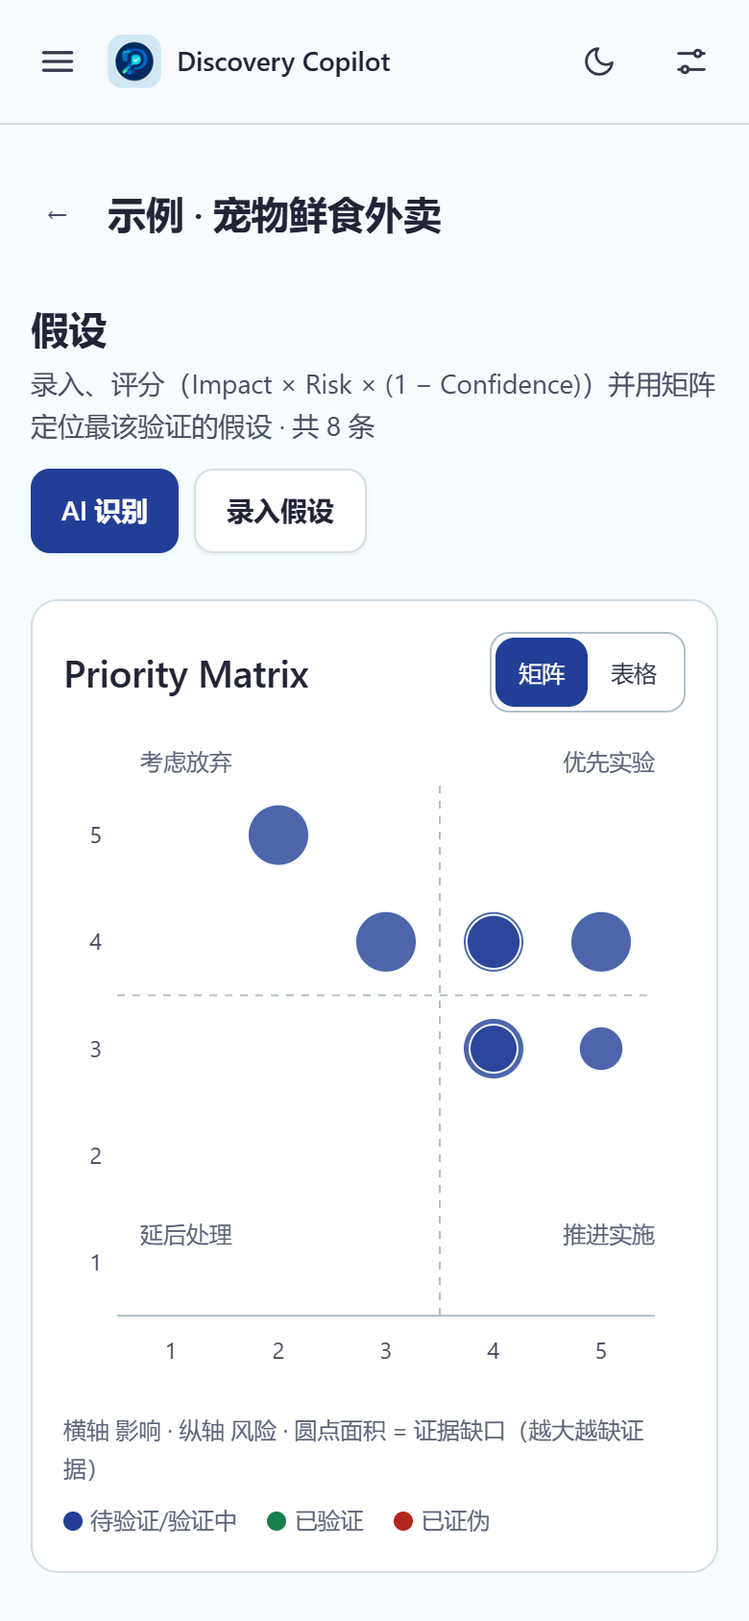
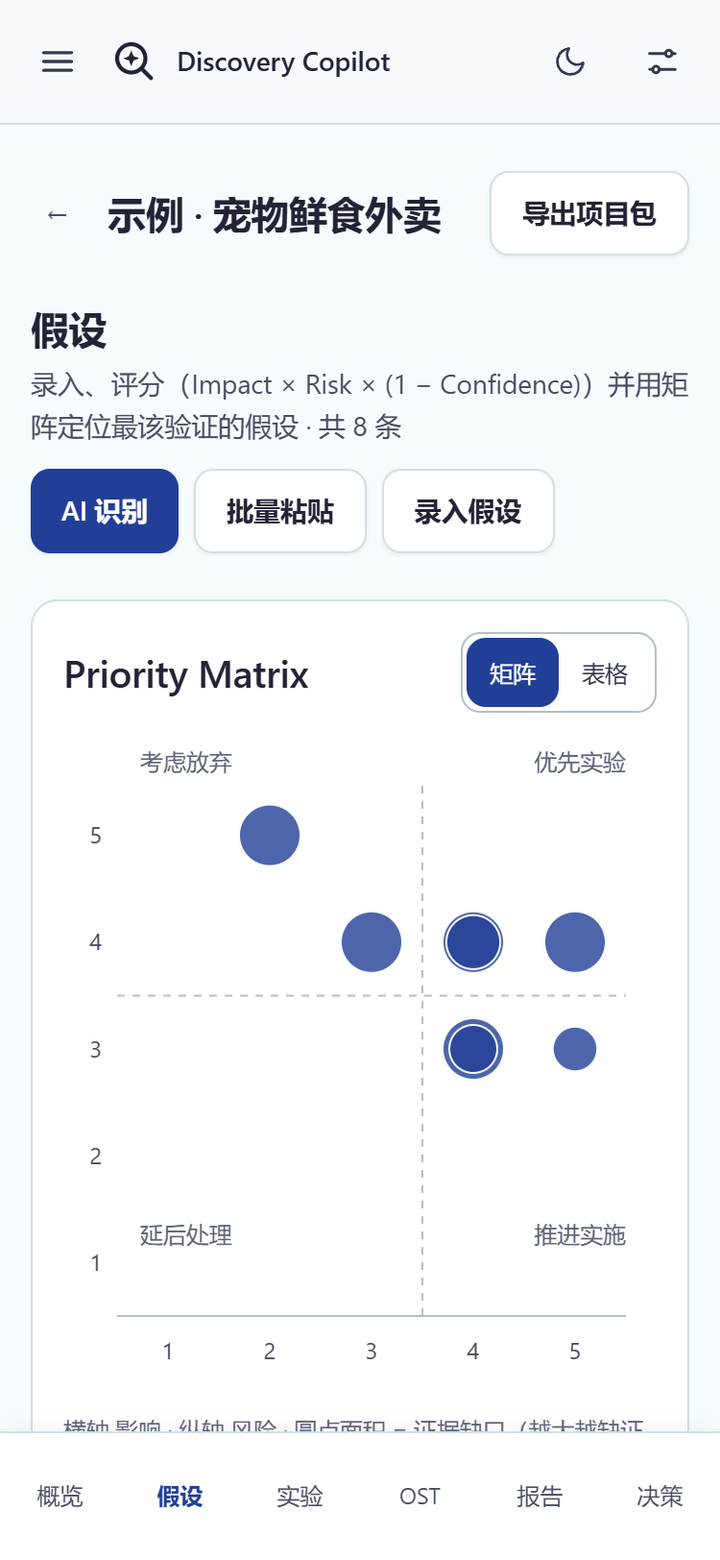
feat(v0.2.4-6): 品牌图标换为原创 SVG
- public/brand-icon.svg（透明背景放大镜+星芒），删除豆包生成的 brand-icon.jpg
- 新增 BrandMark：CSS mask + bg-ink，浅/深主题自适应；替换侧栏/顶栏/抽屉/欢迎页四处 img
- favicon 改 image/svg+xml；启动页改用 mask，暗色下切换为浅色
- 导出报告不再给 logo 加圆角；测试语料改 svg
- NOTICE/README 中英/8 语言 Product 与 Terms 文案去掉豆包与 AI 生成声明
- 重拍 4 张 375px README 截图

diff --git a/src/lib/i18n/dictionaries/ru.ts b/src/lib/i18n/dictionaries/ru.ts
@@ -407,7 +407,7 @@ export const ru: Dict = {
   'settings.product.p4.desc': 'ИИ только предлагает: результаты выявления, черновики экспериментов и правки отчётов попадают в данные лишь после вашего подтверждения.',
   'settings.product.openSourceTitle': 'Открытый код',
   'settings.product.openSourceBody':
-    'Проект открыт под лицензией MIT: свободное использование, изменение и распространение. Зависимости перечислены в package.json, полные тексты лицензий третьих сторон, поставляемых со сборкой, — в THIRD_PARTY_LICENSES.txt и NOTICE. Значки интерфейса — собственные инлайновые SVG; иконка приложения создана с помощью ИИ (Doubao), по условиям платформы права принадлежат пользователю, она распространяется по MIT в объёме прав проекта и сохраняет метку ИИ-генерации. Отзывы приветствуются в Issues.',
+    'Проект открыт под лицензией MIT: свободное использование, изменение и распространение. Зависимости перечислены в package.json, полные тексты лицензий третьих сторон, поставляемых со сборкой, — в THIRD_PARTY_LICENSES.txt и NOTICE. Значки интерфейса — собственные инлайновые SVG; иконка приложения — собственный SVG (прозрачный фон), распространяется по MIT. Отзывы приветствуются в Issues.',
   'settings.product.moreTitle': 'Читать дальше',
   'settings.product.linkPrivacyDesc': 'Где хранятся данные и когда они покидают устройство',
   'settings.product.linkTermsDesc': 'Условия использования и отказ от гарантий',
@@ -445,7 +445,7 @@ export const ru: Dict = {
     'Вы обязуетесь использовать Приложение законно и не для деятельности, нарушающей применимое право или права других; за законность и права на содержимое, отправляемое через Приложение сторонним сервисам, отвечаете вы.',
   'settings.terms.s7.title': '7. Интеллектуальная собственность',
   'settings.terms.s7.p1':
-    'Исходный код Приложения открыт под лицензией MIT; вы можете свободно использовать, изменять и распространять его на её условиях. Значки интерфейса — собственные инлайновые SVG; иконка приложения создана с помощью ИИ, распространяется по MIT в объёме прав проекта и сохраняет метку ИИ-генерации. Сторонние зависимости сохраняют свои лицензии; см. THIRD_PARTY_LICENSES.txt и NOTICE.',
+    'Исходный код Приложения открыт под лицензией MIT; вы можете свободно использовать, изменять и распространять его на её условиях. Значки интерфейса — собственные инлайновые SVG; иконка приложения — собственный SVG (прозрачный фон), распространяется по MIT. Сторонние зависимости сохраняют свои лицензии; см. THIRD_PARTY_LICENSES.txt и NOTICE.',
   'settings.terms.s8.title': '8. Отказ от гарантий',
   'settings.terms.s8.p1':
     'Приложение не обещает работы без ошибок, без перерывов или пригодности к конкретным целям; никаких гарантий — явных или подразумеваемых — относительно товарности, отсутствия нарушения прав или точности вывода не даётся. Риск использования Приложения лежит на вас.',

diff --git a/src/lib/i18n/dictionaries/ja.ts b/src/lib/i18n/dictionaries/ja.ts
@@ -407,7 +407,7 @@ export const ja: Dict = {
   'settings.product.p4.desc': 'AI は提案のみ：抽出結果・実験ドラフト・レポートの書き換えは、あなたが確認して初めてデータに書き込まれます。',
   'settings.product.openSourceTitle': 'オープンソース',
   'settings.product.openSourceBody':
-    '本プロジェクトは MIT ライセンスで公開：自由に利用・改変・配布できます。オープンソース依存は package.json を基準とし、ビルドに同梱される第三者ライセンス全文は THIRD_PARTY_LICENSES.txt と NOTICE にあります。インターフェースアイコンは自作インライン SVG、アプリアイコンは AI 生成（豆包）で、プラットフォーム規約に基づき権利はユーザーに帰属し MIT ライセンスで配布され、AI 生成標識を保持しています。Issues でフィードバックを歓迎します。',
+    '本プロジェクトは MIT ライセンスで公開：自由に利用・改変・配布できます。オープンソース依存は package.json を基準とし、ビルドに同梱される第三者ライセンス全文は THIRD_PARTY_LICENSES.txt と NOTICE にあります。インターフェースアイコンは自作インライン SVG、アプリアイコンは自作 SVG（透明背景）で、MIT ライセンスで配布されます。Issues でフィードバックを歓迎します。',
   'settings.product.moreTitle': '関連ドキュメント',
   'settings.product.linkPrivacyDesc': 'データの保存先と、デバイス外に出る条件',
   'settings.product.linkTermsDesc': '利用条件と免責事項',
@@ -445,7 +445,7 @@ export const ja: Dict = {
     'あなたは本アプリを合法的な範囲で利用し、適用法違反や他者の権利侵害にあたる行為に使用しないことに同意します。本アプリ経由で第三者サービスへ送信する内容の合法性と権利関係はあなたが責任を負います。',
   'settings.terms.s7.title': '7. 知的財産権',
   'settings.terms.s7.p1':
-    '本アプリのソースコードは MIT ライセンスで公開されており、同ライセンスの条件で自由に利用・改変・配布できます。インターフェースアイコンは自作インライン SVG、アプリアイコンは AI 生成で、プロジェクトが権利を有する範囲で MIT ライセンスにより配布され、AI 生成標識を保持しています。第三者依存は各自のライセンスに従います。詳細は THIRD_PARTY_LICENSES.txt と NOTICE を参照してください。',
+    '本アプリのソースコードは MIT ライセンスで公開されており、同ライセンスの条件で自由に利用・改変・配布できます。インターフェースアイコンは自作インライン SVG、アプリアイコンは自作 SVG（透明背景）で、MIT ライセンスにより配布されます。第三者依存は各自のライセンスに従います。詳細は THIRD_PARTY_LICENSES.txt と NOTICE を参照してください。',
   'settings.terms.s8.title': '8. 免責事項',
   'settings.terms.s8.p1':
     '本アプリは、誤りなく中断なく動作すること、または特定の目的への適合性を保証しません。商品性・非侵害・出力の正確性について、明示か黙示かを問わず一切の保証を行いません。本アプリの利用に伴うリスクはあなたが負担します。',

diff --git a/src/lib/i18n/dictionaries/fr.ts b/src/lib/i18n/dictionaries/fr.ts
@@ -409,7 +409,7 @@ export const fr: Dict = {
   'settings.product.p4.desc': 'L’IA ne fait que proposer : résultats d’identification, brouillons d’expériences et réécritures de rapports n’entrent dans vos données qu’après votre confirmation.',
   'settings.product.openSourceTitle': 'Open source',
   'settings.product.openSourceBody':
-    'Le projet est open source sous licence MIT : libre d’utilisation, de modification et de distribution. Les dépendances sont listées dans package.json et les textes complets des licences tierces livrés avec le build se trouvent dans THIRD_PARTY_LICENSES.txt et NOTICE. Les icônes d’interface sont des SVG en ligne dessinés pour le projet ; l’icône de l’app a été générée par IA avec Doubao, appartient à l’utilisateur selon les conditions de la plateforme, est distribuée sous MIT dans la mesure des droits du projet et conserve son marquage IA. Vos retours sont bienvenus via les Issues.',
+    'Le projet est open source sous licence MIT : libre d’utilisation, de modification et de distribution. Les dépendances sont listées dans package.json et les textes complets des licences tierces livrés avec le build se trouvent dans THIRD_PARTY_LICENSES.txt et NOTICE. Les icônes d’interface sont des SVG en ligne dessinés pour le projet ; l’icône de l’app est un SVG original (fond transparent) distribué sous MIT. Vos retours sont bienvenus via les Issues.',
   'settings.product.moreTitle': 'Pour aller plus loin',
   'settings.product.linkPrivacyDesc': 'Où sont stockées les données et quand elles quittent votre appareil',
   'settings.product.linkTermsDesc': 'Conditions d’utilisation et avertissement',
@@ -447,7 +447,7 @@ export const fr: Dict = {
     'Vous vous engagez à utiliser l’Application dans le cadre de la loi et à ne pas l’employer pour des activités violant la loi applicable ou les droits d’autrui ; vous êtes responsable de la légalité et des droits sur les contenus envoyés à des services tiers via l’Application.',
   'settings.terms.s7.title': '7. Propriété intellectuelle',
   'settings.terms.s7.p1':
-    'Le code source de l’Application est open source sous licence MIT ; vous pouvez l’utiliser, le modifier et le distribuer librement selon cette licence. Les icônes d’interface sont des SVG en ligne dessinés pour le projet ; l’icône de l’app est générée par IA, distribuée sous MIT dans la mesure des droits du projet et conserve son marquage IA. Les dépendances tierces gardent leurs propres licences ; voir THIRD_PARTY_LICENSES.txt et NOTICE.',
+    'Le code source de l’Application est open source sous licence MIT ; vous pouvez l’utiliser, le modifier et le distribuer librement selon cette licence. Les icônes d’interface sont des SVG en ligne dessinés pour le projet ; l’icône de l’app est un SVG original (fond transparent) distribué sous MIT. Les dépendances tierces gardent leurs propres licences ; voir THIRD_PARTY_LICENSES.txt et NOTICE.',
   'settings.terms.s8.title': '8. Avertissement (disclaimer)',
   'settings.terms.s8.p1':
     'L’Application ne promet ni fonctionnement sans erreur, ni continuité de service, ni adéquation à un usage particulier ; aucune garantie — expresse ou implicite — n’est donnée quant à la qualité marchande, à la non-contrefaçon ou à l’exactitude des sorties. Vous assumez tous les risques liés à son utilisation.',

diff --git a/src/lib/i18n/dictionaries/ko.ts b/src/lib/i18n/dictionaries/ko.ts
@@ -398,7 +398,7 @@ export const ko: Dict = {
   'settings.product.p4.desc': 'AI는 제안만 합니다: 추출 결과, 실험 초안, 보고서 수정은 내가 확인한 후에야 데이터에 기록됩니다.',
   'settings.product.openSourceTitle': '오픈소스',
   'settings.product.openSourceBody':
-    '이 프로젝트는 MIT 라이선스로 공개되어 자유로운 사용·수정·배포가 가능합니다. 오픈소스 의존성은 package.json 기준이며, 빌드에 포함되는 제3자 라이선스 전문은 THIRD_PARTY_LICENSES.txt 와 NOTICE 에 있습니다. 인터페이스 아이콘은 자체 제작 인라인 SVG, 앱 아이콘은 AI 생성(더우바오)으로 플랫폼 약관에 따라 권리가 사용자에게 귀속되며 MIT 라이선스로 배포되고 AI 생성 표시를 유지합니다. 저장소 Issues로 피드백을 환영합니다.',
+    '이 프로젝트는 MIT 라이선스로 공개되어 자유로운 사용·수정·배포가 가능합니다. 오픈소스 의존성은 package.json 기준이며, 빌드에 포함되는 제3자 라이선스 전문은 THIRD_PARTY_LICENSES.txt 와 NOTICE 에 있습니다. 인터페이스 아이콘은 자체 제작 인라인 SVG, 앱 아이콘은 자체 제작 SVG(투명 배경)이며 MIT 라이선스로 배포됩니다. 저장소 Issues로 피드백을 환영합니다.',
   'settings.product.moreTitle': '더 읽기',
   'settings.product.linkPrivacyDesc': '데이터가 어디에 저장되고 언제 기기 밖으로 나가는지',
   'settings.product.linkTermsDesc': '이용 조건과 면책 조항',
@@ -433,7 +433,7 @@ export const ko: Dict = {
   'settings.terms.s6.p1':
     '본 앱을 합법적 범위에서 사용하고 적용 법령 위반이나 타인의 권리 침해에 해당하는 활동에 사용하지 않을 것을 약속합니다. 본 앱을 통해 제3자 서비스로 보내는 내용의 적법성과 권리 귀속은 내가 책임집니다.',
   'settings.terms.s7.title': '7. 지식재산권',
-  'settings.terms.s7.p1': '본 앱의 소스 코드는 MIT 라이선스로 공개되며 해당 라이선스 조건 아래 자유로운 사용·수정·배포가 가능합니다. 인터페이스 아이콘은 자체 제작 인라인 SVG, 앱 아이콘은 AI 생성으로 프로젝트가 권리를 가지는 범위에서 MIT 라이선스로 배포되며 AI 생성 표시를 유지합니다. 제3자 의존성은 각자의 라이선스를 따릅니다. 자세한 내용은 THIRD_PARTY_LICENSES.txt 와 NOTICE 를 참조하세요.',
+  'settings.terms.s7.p1': '본 앱의 소스 코드는 MIT 라이선스로 공개되며 해당 라이선스 조건 아래 자유로운 사용·수정·배포가 가능합니다. 인터페이스 아이콘은 자체 제작 인라인 SVG, 앱 아이콘은 자체 제작 SVG(투명 배경)이며 MIT 라이선스로 배포됩니다. 제3자 의존성은 각자의 라이선스를 따릅니다. 자세한 내용은 THIRD_PARTY_LICENSES.txt 와 NOTICE 를 참조하세요.',
   'settings.terms.s8.title': '8. 면책 조항',
   'settings.terms.s8.p1':
     '본 앱은 오류 없음, 무중단 동작, 특정 용도 적합성을 약속하지 않으며 상품성, 비침해, 출력 정확성에 대해 명시적이든 묵시적이든 어떤 보증도 하지 않습니다. 본 앱 사용의 위험은 사용자가 부담합니다.',

diff --git a/src/lib/i18n/dictionaries/de.ts b/src/lib/i18n/dictionaries/de.ts
@@ -409,7 +409,7 @@ export const de: Dict = {
   'settings.product.p4.desc': 'Die KI schlägt nur vor: Identifikationsergebnisse, Experimententwürfe und Berichtsüberarbeitungen landen erst nach deiner Bestätigung in den Daten.',
   'settings.product.openSourceTitle': 'Open Source',
   'settings.product.openSourceBody':
-    'Das Projekt ist unter der MIT-Lizenz quelloffen: freie Nutzung, Änderung und Verbreitung. Die Abhängigkeiten stehen in package.json, die vollständigen Lizenztexte der im Build enthaltenen Drittanbieter in THIRD_PARTY_LICENSES.txt und NOTICE. Oberflächensymbole sind selbstgezeichnete Inline-SVGs; das App-Icon wurde mit Doubao per KI erzeugt, gehört nach den Plattformbedingungen dem Nutzer, wird im Rahmen der Projektrechte unter MIT verteilt und behält seine KI-Kennzeichnung. Feedback über Issues willkommen.',
+    'Das Projekt ist unter der MIT-Lizenz quelloffen: freie Nutzung, Änderung und Verbreitung. Die Abhängigkeiten stehen in package.json, die vollständigen Lizenztexte der im Build enthaltenen Drittanbieter in THIRD_PARTY_LICENSES.txt und NOTICE. Oberflächensymbole sind selbstgezeichnete Inline-SVGs; das App-Icon ist ein eigenes SVG (transparenter Hintergrund) und wird unter MIT verteilt. Feedback über Issues willkommen.',
   'settings.product.moreTitle': 'Weiterlesen',
   'settings.product.linkPrivacyDesc': 'Wo Daten liegen und wann sie dein Gerät verlassen',
   'settings.product.linkTermsDesc': 'Nutzungsbedingungen und Haftungsausschluss',
@@ -447,7 +447,7 @@ export const de: Dict = {
     'Du versicherst, die Anwendung im Rahmen geltenden Rechts zu nutzen und nicht für Handlungen, die gegen Gesetze oder Rechte anderer verstoßen; für Rechtmäßigkeit und Rechte an Inhalten, die du über die Anwendung an Drittdienste sendest, bist du verantwortlich.',
   'settings.terms.s7.title': '7. Geistiges Eigentum',
   'settings.terms.s7.p1':
-    'Der Quellcode der Anwendung ist unter der MIT-Lizenz quelloffen; du darfst ihn nach deren Bedingungen frei nutzen, ändern und verbreiten. Oberflächensymbole sind selbstgezeichnete Inline-SVGs; das App-Icon ist KI-generiert, wird im Rahmen der Projektrechte unter MIT verteilt und behält seine KI-Kennzeichnung. Abhängigkeiten Dritter behalten ihre eigenen Lizenzen; siehe THIRD_PARTY_LICENSES.txt und NOTICE.',
+    'Der Quellcode der Anwendung ist unter der MIT-Lizenz quelloffen; du darfst ihn nach deren Bedingungen frei nutzen, ändern und verbreiten. Oberflächensymbole sind selbstgezeichnete Inline-SVGs; das App-Icon ist ein eigenes SVG (transparenter Hintergrund) und wird unter MIT verteilt. Abhängigkeiten Dritter behalten ihre eigenen Lizenzen; siehe THIRD_PARTY_LICENSES.txt und NOTICE.',
   'settings.terms.s8.title': '8. Haftungsausschluss',
   'settings.terms.s8.p1':
     'Die Anwendung verspricht weder fehlerfreien noch unterbrechungsfreien Betrieb noch Eignung für einen bestimmten Zweck; es werden keine Garantien — weder ausdrücklich noch stillschweigend — für Marktgängigkeit, Rechtsfreiheit oder Ausgabegenauigkeit gegeben. Das Nutzungsrisiko trägst du.',

diff --git a/src/lib/i18n/dictionaries/en.ts b/src/lib/i18n/dictionaries/en.ts
@@ -407,7 +407,7 @@ export const en: Dict = {
   'settings.product.p4.desc': 'AI only suggests: identification results, experiment drafts and report rewrites enter your data only after you confirm.',
   'settings.product.openSourceTitle': 'Open source',
   'settings.product.openSourceBody':
-    'The project is open source under the MIT license: free to use, modify and distribute. Dependencies are listed in package.json, and the full third-party license texts shipped with the build are in THIRD_PARTY_LICENSES.txt and NOTICE. Interface icons are inline SVGs drawn for this project; the app icon was AI-generated with Doubao, is distributed under MIT to the extent the project holds rights in it under the platform terms, and retains its AI-generation label. Feedback is welcome via repository Issues.',
+    'The project is open source under the MIT license: free to use, modify and distribute. Dependencies are listed in package.json, and the full third-party license texts shipped with the build are in THIRD_PARTY_LICENSES.txt and NOTICE. Interface icons are inline SVGs drawn for this project; the app icon is an original SVG drawn for this project (transparent background) and is distributed under MIT. Feedback is welcome via repository Issues.',
   'settings.product.moreTitle': 'Further reading',
   'settings.product.linkPrivacyDesc': 'Where data is stored and when it leaves your device',
   'settings.product.linkTermsDesc': 'Terms of use and the disclaimer',
@@ -445,7 +445,7 @@ export const en: Dict = {
     'You agree to use the Application lawfully and not for any activity that violates applicable law or infringes the rights of others; you are responsible for the legality and rights of content you send to third-party services through the Application.',
   'settings.terms.s7.title': '7. Intellectual property',
   'settings.terms.s7.p1':
-    'The source code of the Application is open source under the MIT license; you may use, modify and distribute it under that license. Interface icons are inline SVGs drawn for this project; the app icon was AI-generated and is distributed under MIT to the extent the project holds rights in it, with its AI-generation label retained. Third-party dependencies keep their own licenses; see THIRD_PARTY_LICENSES.txt and NOTICE.',
+    'The source code of the Application is open source under the MIT license; you may use, modify and distribute it under that license. Interface icons are inline SVGs drawn for this project; the app icon is an original SVG drawn for this project and is distributed under MIT. Third-party dependencies keep their own licenses; see THIRD_PARTY_LICENSES.txt and NOTICE.',
   'settings.terms.s8.title': '8. Disclaimer',
   'settings.terms.s8.p1':
     'The Application carries no warranty of error-free or uninterrupted operation or fitness for any particular purpose; no warranty, express or implied, is given regarding merchantability, non-infringement or output accuracy. You assume all risk arising from using the Application.',

diff --git a/src/lib/i18n/dictionaries/zh-Hant.ts b/src/lib/i18n/dictionaries/zh-Hant.ts
@@ -387,7 +387,7 @@ export const zhHant: Dict = {
   'settings.product.p4.desc': 'AI 只提建議：識別結果、實驗草稿、報告改寫都要經你確認後才會寫入資料。',
   'settings.product.openSourceTitle': '開源',
   'settings.product.openSourceBody':
-    '專案以 MIT 授權開源：可以自由使用、修改與散布。開源依賴清單以 package.json 為準，隨產物分發的第三方許可全文見 THIRD_PARTY_LICENSES.txt 與 NOTICE；介面圖示為專案自繪內聯 SVG，應用圖示由 AI 生成（豆包），依平台條款權利歸用戶並隨 MIT 授權分發，已保留 AI 生成標識。歡迎透過倉庫 Issues 回饋問題與建議。',
+    '專案以 MIT 授權開源：可以自由使用、修改與散布。開源依賴清單以 package.json 為準，隨產物分發的第三方許可全文見 THIRD_PARTY_LICENSES.txt 與 NOTICE；介面圖示為專案自繪內聯 SVG，應用圖示為專案原創 SVG（透明背景），隨 MIT 授權分發。歡迎透過倉庫 Issues 回饋問題與建議。',
   'settings.product.moreTitle': '延伸閱讀',
   'settings.product.linkPrivacyDesc': '資料存在哪、什麼情況下會離開你的裝置',
   'settings.product.linkTermsDesc': '使用條款與免責聲明',
@@ -420,7 +420,7 @@ export const zhHant: Dict = {
   'settings.terms.s6.p1':
     '你承諾在合法範圍內使用本應用，不得將其用於任何違反適用法律或侵犯他人合法權益的活動；透過本應用向第三方服務發送的內容，由你對其合法性與權利歸屬負責。',
   'settings.terms.s7.title': '七、知識產權',
-  'settings.terms.s7.p1': '本應用的原始碼以 MIT 授權開源，你可以依據該授權自由使用、修改與散布。介面圖示為專案自繪內聯 SVG；應用圖示由 AI 生成，依平台條款權利歸用戶並隨本倉庫 MIT 授權分發，檔案內的 AI 生成標識予以保留。第三方依賴各自適用其許可，詳見 THIRD_PARTY_LICENSES.txt 與 NOTICE。',
+  'settings.terms.s7.p1': '本應用的原始碼以 MIT 授權開源，你可以依據該授權自由使用、修改與散布。介面圖示為專案自繪內聯 SVG；應用圖示為專案原創 SVG（透明背景），隨本倉庫 MIT 授權分發。第三方依賴各自適用其許可，詳見 THIRD_PARTY_LICENSES.txt 與 NOTICE。',
   'settings.terms.s8.title': '八、免責聲明',
   'settings.terms.s8.p1':
     '本應用不承諾無錯誤、不中斷執行或適用於任何特定用途；不對適銷性、不侵權或輸出準確性提供任何明示或默示的擔保。使用本應用的風險由你自行承擔。',

diff --git a/src/lib/i18n/dictionaries/zh-Hans.ts b/src/lib/i18n/dictionaries/zh-Hans.ts
@@ -395,7 +395,7 @@ export const zhHans = {
   'settings.product.p4.desc': 'AI 只提建议：识别结果、实验草稿、报告改写都要经你确认后才会写入数据。',
   'settings.product.openSourceTitle': '开源',
   'settings.product.openSourceBody':
-    '项目以 MIT 许可开源：可以自由使用、修改与分发。开源依赖清单以 package.json 为准，随产物分发的第三方许可全文见 THIRD_PARTY_LICENSES.txt 与 NOTICE；界面图标为项目自绘内联 SVG，应用图标由 AI 生成（豆包），依平台条款权利归用户并随 MIT 许可分发，已保留 AI 生成标识。欢迎通过仓库 Issues 反馈问题与建议。',
+    '项目以 MIT 许可开源：可以自由使用、修改与分发。开源依赖清单以 package.json 为准，随产物分发的第三方许可全文见 THIRD_PARTY_LICENSES.txt 与 NOTICE；界面图标为项目自绘内联 SVG，应用图标为项目原创 SVG（透明背景），随 MIT 许可分发。欢迎通过仓库 Issues 反馈问题与建议。',
   'settings.product.moreTitle': '延伸阅读',
   'settings.product.linkPrivacyDesc': '数据存在哪、什么情况下会离开你的设备',
   'settings.product.linkTermsDesc': '使用条款与免责声明',
@@ -428,7 +428,7 @@ export const zhHans = {
   'settings.terms.s6.p1':
     '你承诺在合法范围内使用本应用，不得将其用于任何违反适用法律或侵犯他人合法权益的活动；通过本应用向第三方服务发送的内容，由你对其合法性与权利归属负责。',
   'settings.terms.s7.title': '七、知识产权',
-  'settings.terms.s7.p1': '本应用的源代码以 MIT 许可开源，你可以依据该许可自由使用、修改与分发。界面图标为项目自绘内联 SVG；应用图标由 AI 生成，依平台条款权利归用户并随本仓库 MIT 许可分发，文件内的 AI 生成标识予以保留。第三方依赖各自适用其许可，详见 THIRD_PARTY_LICENSES.txt 与 NOTICE。',
+  'settings.terms.s7.p1': '本应用的源代码以 MIT 许可开源，你可以依据该许可自由使用、修改与分发。界面图标为项目自绘内联 SVG；应用图标为项目原创 SVG（透明背景），随本仓库 MIT 许可分发。第三方依赖各自适用其许可，详见 THIRD_PARTY_LICENSES.txt 与 NOTICE。',
   'settings.terms.s8.title': '八、免责声明',
   'settings.terms.s8.p1':
     '本应用不承诺无错误、不间断运行或适用于任何特定用途；不对适销性、不侵权或输出准确性提供任何明示或默示的担保。使用本应用的风险由你自行承担。',

diff --git a/src/components/layout/AppShell.tsx b/src/components/layout/AppShell.tsx
@@ -12,7 +12,7 @@ import { SETTINGS_PATHS } from '@/app/nav'
 import { applyThemePreference, useResolvedTheme } from '@/lib/theme'
 import { CloseIcon, CompassIcon, GridIcon, MenuIcon, MoonIcon, SettingsIcon, SunIcon } from '@/components/ui/icons'
 import { setLocale, useT } from '@/lib/i18n'
-import { BRAND_ICON_URL } from '@/lib/brand'
+import { BrandMark } from '@/components/layout/BrandMark'
 
 const navClass = ({ isActive }: { isActive: boolean }) =>
   `flex min-h-11 items-center gap-3 rounded-btn px-3 text-body-sm transition-colors ${
@@ -147,7 +147,7 @@ export default function AppShell() {
       {/* 桌面固定左侧导航（≥768px 保持现状）：底色 + 1px 分隔，不用重投影 */}
       <aside className="sticky top-0 hidden h-screen w-60 shrink-0 flex-col border-r border-hairline bg-surface-1 md:flex">
         <Link to="/" className="flex h-16 shrink-0 items-center gap-2.5 border-b border-hairline px-5">
-          <img src={BRAND_ICON_URL} alt="" className="h-8 w-8 rounded-md" />
+          <BrandMark className="h-8 w-8" />
           <span className="text-subhead text-ink">Discovery Copilot</span>
         </Link>
         <nav aria-label={t('nav.sections')} className="flex flex-1 flex-col gap-1 p-3">
@@ -188,7 +188,7 @@ export default function AppShell() {
               <MenuIcon size={22} />
             </button>
             <Link to="/" className="flex min-w-0 flex-1 items-center gap-2">
-              <img src={BRAND_ICON_URL} alt="" className="h-7 w-7 shrink-0 rounded-md" />
+              <BrandMark className="h-7 w-7" />
               <span className="truncate text-body-sm font-semibold text-ink">Discovery Copilot</span>
             </Link>
             <button
@@ -246,7 +246,7 @@ export default function AppShell() {
           >
             <div className="flex h-16 shrink-0 items-center justify-between gap-2 border-b border-hairline px-4">
               <Link to="/" className="flex min-w-0 items-center gap-2" onClick={() => setMenuOpen(false)}>
-                <img src={BRAND_ICON_URL} alt="" className="h-8 w-8 shrink-0 rounded-md" />
+                <BrandMark className="h-8 w-8" />
                 <span className="truncate text-body-sm font-semibold text-ink">Discovery Copilot</span>
               </Link>
               <button

diff --git a/index.html b/index.html
@@ -5,7 +5,7 @@
     <meta name="viewport" content="width=device-width, initial-scale=1.0, viewport-fit=cover" />
     <meta name="color-scheme" content="light dark" />
     <meta name="theme-color" content="#f6fbfd" />
-    <link rel="icon" type="image/jpeg" href="%BASE_URL%brand-icon.jpg" />
+    <link rel="icon" type="image/svg+xml" href="%BASE_URL%brand-icon.svg" />
     <!--
       Resolve the theme before the first paint. A classic same-origin script is
       allowed by `script-src 'self'` and blocks rendering, unlike the deferred ES
@@ -47,11 +47,16 @@
         background-color: #11121f;
         background-image: radial-gradient(rgba(255, 255, 255, 0.06) 1px, transparent 1px);
       }
-      #dc-splash img {
+      #dc-splash-mark {
         width: 56px;
         height: 56px;
-        border-radius: 14px;
+        background-color: #223f97;
+        -webkit-mask: url('%BASE_URL%brand-icon.svg') center / contain no-repeat;
+        mask: url('%BASE_URL%brand-icon.svg') center / contain no-repeat;
         animation: dc-splash-logo 0.5s cubic-bezier(0.2, 0.8, 0.2, 1) both;
+      }
+      :root[data-theme='dark'] #dc-splash-mark {
+        background-color: #e8ecf7;
       }
       #dc-splash .dc-splash-name {
         margin: 0;
@@ -110,7 +115,7 @@
         }
       }
       @media (prefers-reduced-motion: reduce) {
-        #dc-splash img,
+        #dc-splash-mark,
         #dc-splash .dc-splash-name,
         #dc-splash .dc-splash-tagline {
           animation: none;
@@ -120,7 +125,7 @@
   </head>
   <body>
     <div id="dc-splash" aria-hidden="true">
-      <img src="%BASE_URL%brand-icon.jpg" alt="" />
+      <span id="dc-splash-mark" aria-hidden="true"></span>
       <p class="dc-splash-name">Discovery <span>Copilot</span></p>
       <p class="dc-splash-tagline">无账号的本地优先产品发现工作台</p>
     </div>

diff --git a/src/components/onboarding/WelcomeDialog.tsx b/src/components/onboarding/WelcomeDialog.tsx
@@ -3,7 +3,7 @@ import { markOnboardingDone } from '@/services/onboarding'
 import { Button } from '@/components/ui/Button'
 import { Dialog } from '@/components/ui/Dialog'
 import { BotIcon, ClipboardIcon, CopyIcon } from '@/components/ui/icons'
-import { BRAND_ICON_URL } from '@/lib/brand'
+import { BrandMark } from '@/components/layout/BrandMark'
 import { useT } from '@/lib/i18n'
 
 const FLOW_STEPS = ['welcome.flow.idea', 'welcome.flow.assumption', 'welcome.flow.priority', 'welcome.flow.experiments', 'welcome.flow.ost', 'welcome.flow.report']
@@ -46,11 +46,7 @@ export function WelcomeDialog({ onClose }: WelcomeDialogProps) {
         {step === 0 && (
           <>
             <div className="flex items-start gap-3 sm:items-center sm:gap-4">
-              <img
-                src={BRAND_ICON_URL}
-                alt=""
-                className="h-12 w-12 shrink-0 rounded-xl border border-hairline shadow-card sm:h-14 sm:w-14"
-              />
+              <BrandMark className="h-12 w-12 sm:h-14 sm:w-14" />
               <p className="min-w-0 text-body text-ink">{t('welcome.intro')}</p>
             </div>
             <div>

diff --git a/src/components/layout/BrandMark.tsx b/src/components/layout/BrandMark.tsx
@@ -1,0 +1,26 @@
+import { BRAND_ICON_URL } from '@/lib/brand'
+
+/**
+ * Brand icon rendered as a CSS mask so the glyph inherits `bg-ink` and stays
+ * visible in both themes. The SVG file itself has a transparent background and
+ * a fixed accent stroke for HTML export, where an `<img>` is used instead.
+ * Decorative by default (`aria-hidden`) — the adjacent wordmark carries the name.
+ */
+export function BrandMark({ className = 'h-8 w-8' }: { className?: string }) {
+  return (
+    <span
+      aria-hidden="true"
+      className={`inline-block shrink-0 bg-ink ${className}`}
+      style={{
+        WebkitMaskImage: `url("${BRAND_ICON_URL}")`,
+        maskImage: `url("${BRAND_ICON_URL}")`,
+        WebkitMaskRepeat: 'no-repeat',
+        maskRepeat: 'no-repeat',
+        WebkitMaskPosition: 'center',
+        maskPosition: 'center',
+        WebkitMaskSize: 'contain',
+        maskSize: 'contain',
+      }}
+    />
+  )
+}
